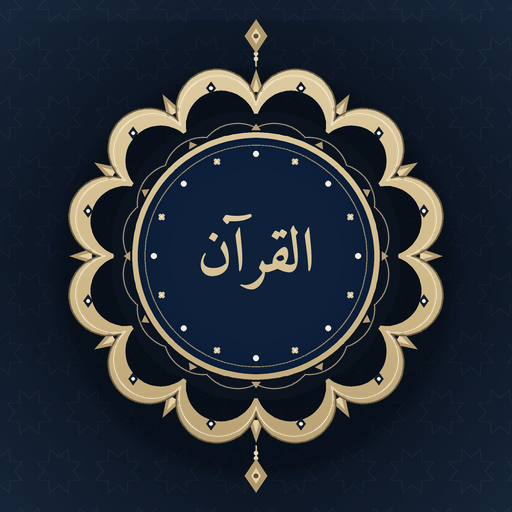
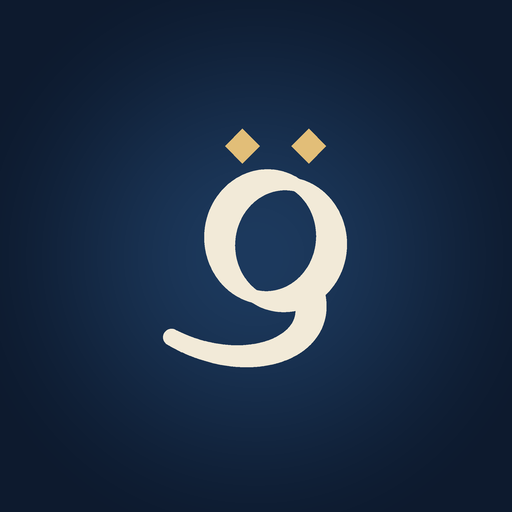
The app's face is the qaf, the letter that begins the word Quran (D-126)
One glyph, drawn the way a reed pen draws it: the loop thins where the
nib runs flat and swells where it bites, the tail sweeps left and tapers
to the flat pen cut, and the two dots are a scribe's rhombi in the gold
of an illuminated initial, on deep ink with a quiet light behind the
letter. A monoline loop reads as the digit 9, so the pen contrast is
what makes it a letter; the geometry is parametric, so every size is
rendered from one definition.

Every surface the mark touches carries that one drawing: the adaptive
background, foreground, and monochrome layers and the legacy launcher
icons at all five densities, the Play icon and the feature graphic, the
shared card's foot mark, and the reminder's small icon, redrawn as a
bolder qaf so the loop survives the shade. icon_background is the
field's mid tone now, and the comments that described the old mark say
what is there. The suite is green on the owner's machine.

diff --git a/app/src/main/kotlin/io/github/muntasimulhaque/quran/ui/reader/AyahShare.kt b/app/src/main/kotlin/io/github/muntasimulhaque/quran/ui/reader/AyahShare.kt
@@ -152,10 +152,9 @@ internal suspend fun loadShareCard(
 @Composable
 internal fun AyahShareCardContent(card: ShareCard, modifier: Modifier = Modifier) {
     val hafs = rememberHafs()
-    // The medallion the launcher icon is built around, sized for a foot:
-    // the launcher's illustration is a whole illuminated opening, and a
-    // whole opening at 20 dp would be mud, so the card carries the star the
-    // icon's carpet page is built on (owner decision, D-112).
+    // The mark the launcher icon is built around, sized for a foot: the
+    // qaf that begins the word Quran, in ivory with its two dots in gold,
+    // on a square of the icon's own ink (owner decision, D-126).
     val mark = painterResource(R.drawable.ic_share_mark)
     val lapis = colorResource(R.color.icon_background)
     val paper = lightColorScheme(
@@ -237,7 +236,7 @@ internal fun AyahShareCardContent(card: ShareCard, modifier: Modifier = Modifier
     }
 }
 
-/** The app's mark at a foot's size: the medallion star on its lapis square. */
+/** The app's mark at a foot's size: the qaf on its ink square. */
 @Composable
 private fun AppMark(mark: Painter, ground: Color, modifier: Modifier = Modifier) {
     Box(

diff --git a/docs/decisions.md b/docs/decisions.md
@@ -5988,3 +5988,45 @@ factors. The frames of run 36664066010 attempt 1 (phone and 7 inch complete)
 and its rerun are in those runs' artifacts, which is where a refreshed set
 starts from; nothing was installed after the submission, because a set
 refreshed after it has nothing left to be used for.
+
+## D-126: The qaf mark
+
+Date: the fortieth session, at the owner's word. The icon was theirs to
+decide (two earlier marks were rejected and withdrawn), and they asked for
+the best app icon in the world, drawn from scratch, with every surface the
+mark touches remade with it: the launcher layers, the store icon and
+feature graphic, the shared card's mark, and the reminder's small icon.
+
+**The mark is the letter qaf, the first letter of the word Quran.** One
+glyph, the way the strong icons are one shape. The loop is drawn with a
+reed pen's contrast, thin where the nib runs flat and swelling where it
+bites; the tail sweeps left below the baseline and tapers to the flat cut
+a qalam leaves; the two dots are a scribe's rhombi in the gold of an
+illuminated initial. The field is deep ink, `#0D1A2E` at the edge with a
+quiet light behind the letter, `#1D3A5E` at its heart; the letter is warm
+ivory `#F2EAD8`, the dots `#E2BE78`. Every earlier concept (the mushaf
+cover, the shamsa, the word set in Amiri) was set aside at the owner's
+word: this one was commissioned as a new drawing, not a revision.
+
+**Why a letter.** The app is a book, and the most ownable mark a book can
+wear is the first letter of its name: ق reads as Q to a Latin eye and as
+the opening of القرآن to an Arabic one, needs no translation in either,
+reduces to the status bar, and holds as a pure silhouette on a themed home
+screen. The pen contrast is what keeps it a letter and not a digit: a
+monoline loop with a tail reads as 9, so the geometry carries the nib's
+own swell and taper. The drawing is parametric, computed rather than
+traced, so any size is rendered exactly from one definition: head center
+(58.5, 50.5), radii 12.8 and 13.8, stroke 7.4, nib angle 24 degrees, dots
+at plus or minus 7.6 of the head's centerline, tail the cubic (66.0, 62.6),
+(70.2, 75.0), (51.7, 82.2), (34.2, 72.4), on a 108 by 108 canvas with all
+ink inside the 66 unit safe circle.
+
+**Every surface carries the one drawing.** The adaptive background,
+foreground, and monochrome layers (the mono silhouette a little sturdier),
+the legacy launcher icons pre-26 launchers still need, the Play icon at
+512, the feature graphic at 1024 by 500 in 24-bit, the shared card's foot
+mark on its ink square (`icon_background` is the field's mid tone,
+`#122D4A`), and `ic_daily`, the reminder's status bar icon, redrawn as a
+bolder qaf so the loop survives the shade. The rasters are rendered
+programmatically at high supersampling; the generator stays off the tree
+the way D-112's did, and the numbers above are its whole definition.

diff --git a/play-store/listing.md b/play-store/listing.md
@@ -92,7 +92,7 @@ for.
 - 7 inch tablet screenshots: `screenshots/tablet7/` (800 x 1280), eight of them
 - 10 inch tablet screenshots: `screenshots/tablet10/` (2560 x 1800), eight of them
 
-The icon and the feature graphic are the center of a mushaf cover (D-112): a twelve petal shamsa in flat champagne gold on an ink navy field, with the word القرآن in the app's Amiri at its heart. The store icon wears the medallion's pendants; the feature graphic is the same medallion centered inside two thin rules, 1024 x 500, 24-bit with no alpha. The set was refreshed for 2.8 from run 36448152056: the tablet10 leg's first attempt met the launcher ANR over the keyboard-heavy search frame, class 4 of `docs/screenshot-failures.md`, and the guard refused the frame; one rerun, and attempt 2 is green on all three legs. Every frame was compared with its artifact by `cmp` (24 matches) and every changed frame was read. The settings frames are the release's: the switch is now the last mark on every row, all switches on one line and all chevrons on another, and the About row reads Version 2.8. The other changed frames are the status bar clock, the tablet10 search frame's soft keyboard chrome (the class the 2.7 set already recorded), and subpixel antialiasing, a maximum delta of 2 of 255 on the tablet10 Mushaf frame.
+The icon and the feature graphic are the qaf mark (D-126): the letter that begins the word Quran, drawn the way a reed pen draws it, the loop thinning where the nib runs flat and the tail tapering to a flat pen cut, in warm ivory on a deep ink field with a quiet light behind it, the two dots in the gold of an illuminated initial. The store icon, the adaptive layers, and the monochrome silhouette are one drawing; the feature graphic is the mark centered on the same field, 1024 x 500, 24-bit with no alpha. The set was refreshed for 2.8 from run 36448152056: the tablet10 leg's first attempt met the launcher ANR over the keyboard-heavy search frame, class 4 of `docs/screenshot-failures.md`, and the guard refused the frame; one rerun, and attempt 2 is green on all three legs. Every frame was compared with its artifact by `cmp` (24 matches) and every changed frame was read. The settings frames are the release's: the switch is now the last mark on every row, all switches on one line and all chevrons on another, and the About row reads Version 2.8. The other changed frames are the status bar clock, the tablet10 search frame's soft keyboard chrome (the class the 2.7 set already recorded), and subpixel antialiasing, a maximum delta of 2 of 255 on the tablet10 Mushaf frame.
 
 The set was refreshed after the craftsmanship pass (D-086/D-087) and again
 for 1.9 (D-089), all three legs green first try once the workflow's own

diff --git a/AGENTS.md b/AGENTS.md
@@ -1138,9 +1138,13 @@ has nothing left to be used for.
   own, so the wiring is the `profileinstaller` library, measured at 1,886
   bytes on the bundle; generating the profile needs a connected device and is
   written down rather than claimed.
-- **The icon was withdrawn.** Two marks were drawn this session and the owner
-  rejected both; the icon is theirs to decide, nothing of it is in the tree,
-  and the shipped 2.8/3.0 medallion stands.
+- **The icon is the qaf mark.** Two marks were drawn this session and the
+  owner rejected both, so the icon stayed theirs to decide; in the fortieth
+  session they commissioned one from scratch: the letter that begins the
+  word Quran, drawn with a reed pen's contrast in ivory on deep ink, its two
+  dots in gold. The launcher layers, the store icon and feature graphic, the
+  shared card's mark, and the reminder's small icon all carry the one
+  drawing (D-126).
 - **The Bangla face was added and taken back out.** Anek Bangla as a
   per-codepoint fallback is the right shape, but it made the only
   configuration that draws Bangla go red and the cause was never found, so it

diff --git a/README.md b/README.md
@@ -11,7 +11,10 @@ verified`, signed with the shared upload key; it came from build run
 36664066056, whose three jobs are green. The owner accepted the bundle without
 a refreshed screenshot set, so the store set is the 3.0 one and refreshing it
 for the ten inch form factor, with the tour's last step on that leg, is the
-first work of the next session (D-125).
+first work of the next session (D-125). The tree now also carries the qaf
+mark (D-126) ahead of any release: the icon, the feature graphic, the shared
+card's mark, and the reminder's small icon redrawn as the letter that begins
+the word Quran.
 
 **What 3.1 carries.** The reading answers the reader: word by word is a grid
 instead of a heap, the ayah card opens with its ayah, the mushaf page is ruled
